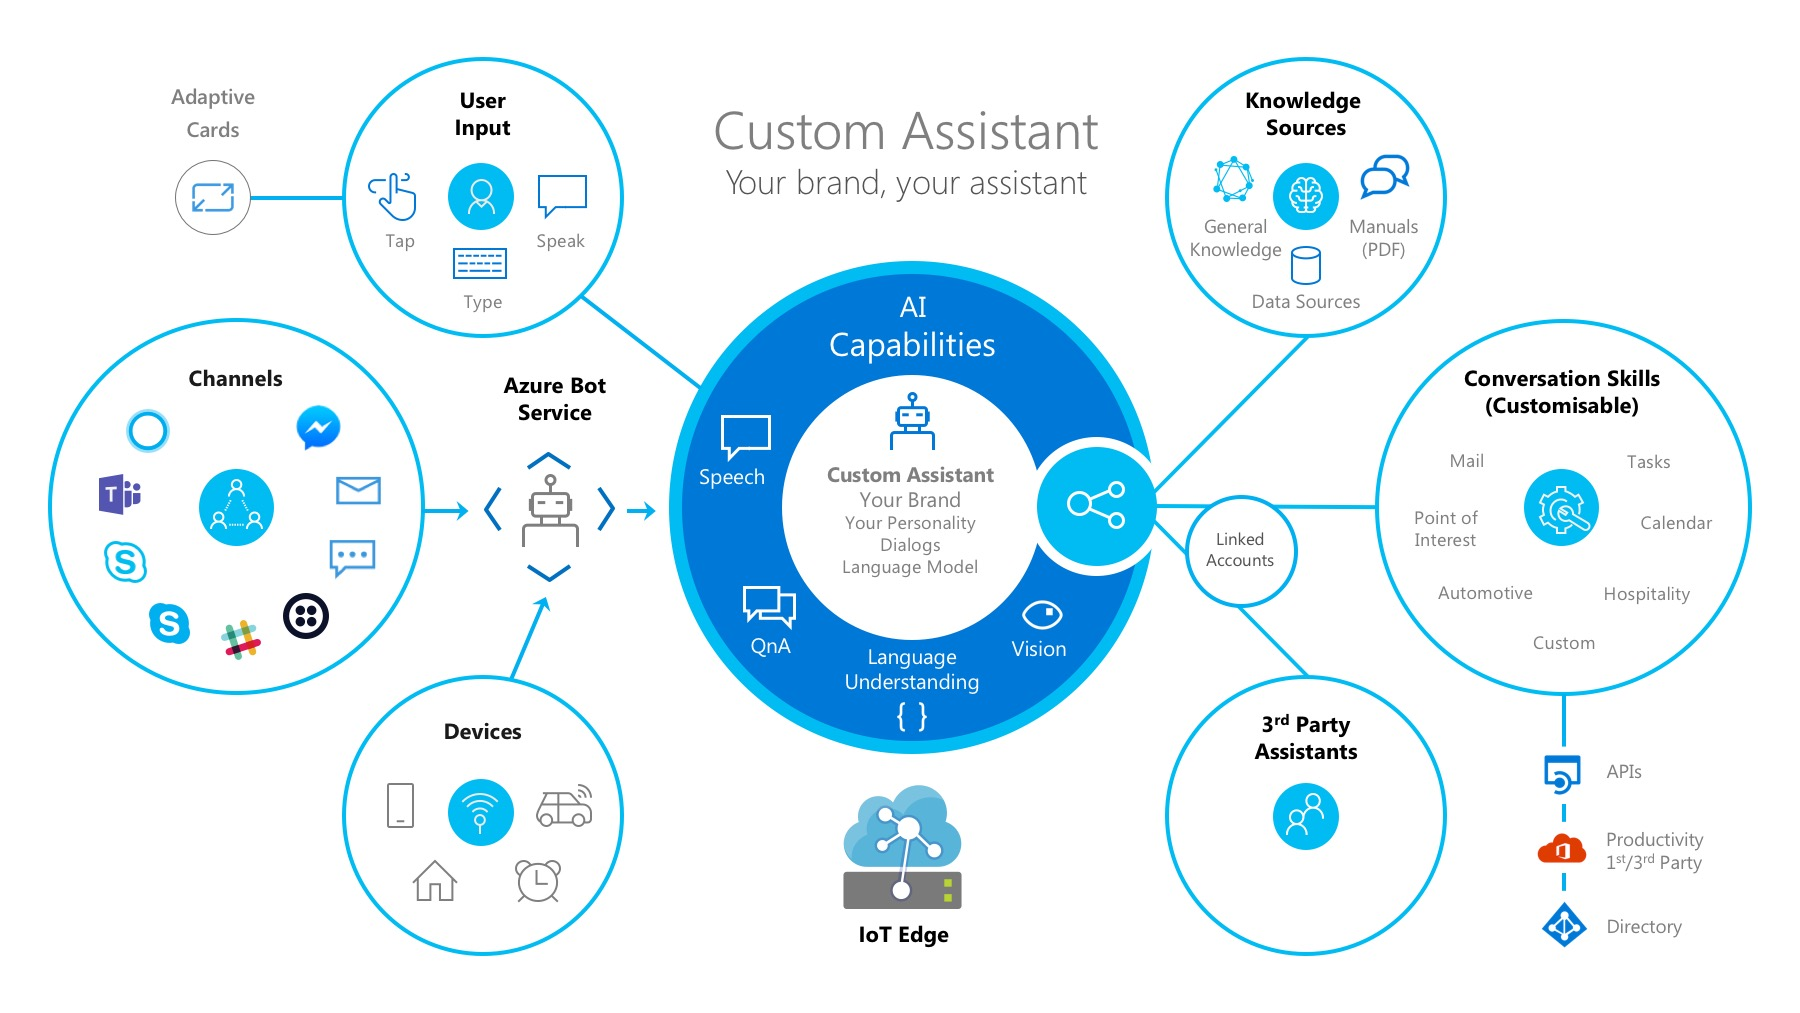
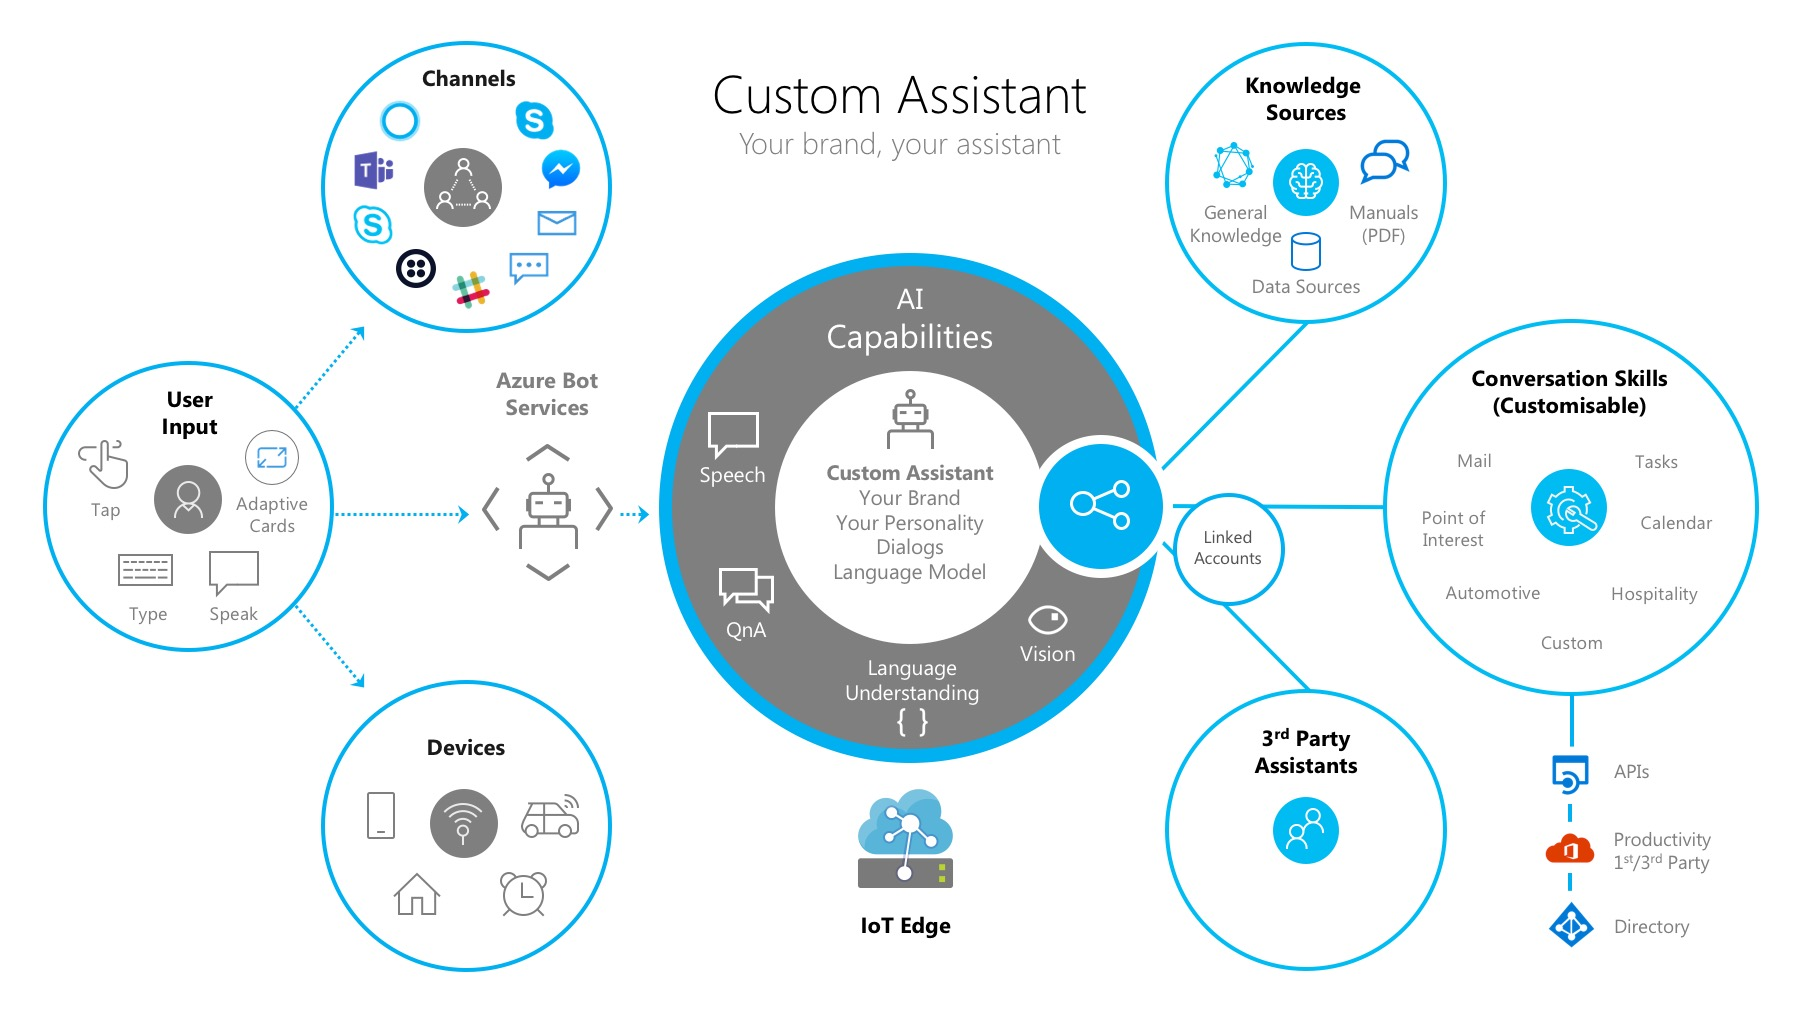
new custom assistant overview

diff --git a/solutions/Custom-Assistant/docs/README.md b/solutions/Custom-Assistant/docs/README.md
@@ -1,67 +1,40 @@
 # Custom Assistant Solution Overview
 
 ## Overview
+We have seen significant need from our customers and partners to deliver a conversational assistant tailored to their brand, personalized to their customers and made available across a broad range of conversational canvases and devices. Continuing Microsoft open-sourced approach toward Bot Framework SDK, the open source Custom Personal Assistant solution provides full control over the end user experience built on a set of foundational capabilities. Additionally, the experience can be infused with intelligence about the end-user and any device/ecosystem information for a truly integrated and intelligent experience.
 
-We have seen significant need from our customers and partners to deliver a conversational assistant tailored to their brand, personalized to their customers and made available across a broad range of conversational canvases and devices. Continuing Microsoft open-sourced approach toward Bot Framework SDK, the open source Custom Personal Assistant provides full control over the end user experience built on a set of foundational capabilities. Additionally, the experience can be infused with intelligence about the end-user and any device/ecosystem information for a truly integrated and intelligent experience.
+We strongly believe our customers should own and enrich their customer relationships and insights. Therefore, any custom assistant provides complete control of the user experience to our customers and partners through open-sourcing the code on GitHub. The name, voice and personality can be changed to suit the organization’s needs. Our Custom Assistant solution simplifies creation of your own assistant enabling you to get started in minutes and then extended using our end to end development tooling.
 
-We strongly believe our customers should own and enrich their customer relationships and insights. Therefore, any custom assistant provides complete control of the user experience to our customers and partners. The name, voice and personality can be changed to suit the organization’s needs. Our Custom Assistant solution simplifies creation of your own assistant enabling you to get started in minutes.
+The scope of Custom Personal Assistant functionality is broad, typically offering end users a range of capabilities. To increase developer productivity and to enable a vibrant ecosystem of reusable conversational experiences, we are providing developers initial examples of reusable conversational skills. These Skills can be added into a conversational application to light up a specific conversation experience, such as finding a point of interest, interacting with calendar, tasks, email and many other scenarios. Skills are fully customizable and consist of language models for multiple languages, dialogs and code.
 
-The scope of Custom Personal Assistant functionality is broad, typically offering end users a range of capabilities. To increase developer productivity and to enable a vibrant ecosystem of reusable conversational experiences, we are providing developers initial examples of reusable conversational skills. These skills can be added into the conversational application to light up a specific conversation experience, such as finding a point of interest, interacting with calendar, tasks, email and many other scenarios. Skills are fully customizable and consist of language models for multiple languages, dialogs and code.
-
-At this time we are running an initial preview and working closely with initial customers and partners in an open-source repository to bring to life the first experiences and make it available more broadly in the coming months. 
+At this time we are running an initial preview and working closely with initial customers and partners in an open-source repository to bring to life the first experiences and make it available more broadly in the coming months.
 
 ![Custom Assistant Diagram](./media/customassistantdiagram.jpg)
 
-## Complete control of the user experience
+## What's in the box
 
-All aspects of the end user experience are owned and controlled by you. This includes the Branding, Name, Voice, Personality, Responses and Avatar. The source-code to the Custom Assistant and supporting Skills are provided in full enabling you to adjust as required.
+The Custom Assistant builds on the [Enterprise Template]() capabilities which provide foundational capabilities for conversational experiences including base conversational intents in multiple languages, Dispatching, QnA and conversational insights. The following Assistant related capabilities are provided at this time, further capabilities are planned and we'll be working closely with customers and partners to help inform the roadmap.
 
-## Complete ownership and control of data
+Feature | Description |
+------------ | -------------
+Onboarding | An example OnBoarding flow enabling your Assistant to greet the user and collect initial information.
+[Eventing Architecture](./customassistant-eventing.md) | Events in the context of the Custom Assistant enable the client application hosting the assistant (in a web-browser or on a device such as a car or speaker) to exchange information about the user or device events whilst also receiving events to perform device operations.
+[Linked Accounts](./customassistant-linkedaccounts.md) | In a speech-led scenario it's not practical for a user to enter their username and password for supporting systems through voice commands. Therefore a separate companion experience provides an opportunity for the user to signin-in and provide permission for an Custom Assistant to retrieve tokens for later use.
+[Skill Enablement](./customassistant-skills.md) | A broad set of common capabilities exist which today, which require each developer to build themselves. Our Custom Assistant solution includes a new Skill capability enabling new capabilities to be plugged into an custom assistant through configuration only and provide an authentication mechanism for Skills to request tokens for down-stream activities.
+[Point of Interest Skill](./customassistant-skills-pointofinterest.md) | The preview Point of Interest (PoI) skill provides a comprehensive language model for finding points of interest and requesting directions. The skill currently provides integration into Azure Maps.
+[Calendar Skill](./customassistant-skills-productivity-calendar.md) | The preview Calendar Skill provides a comprehensive language model for common calendar related activities, The skill is currently integrated into Microsoft Graph (Office 365/Outlook.com) with support for Google APIs to follow soon..
+[Email Skill](./customassistant-skills-productivity-email.md) | The preview Email Skill provides a comprehensive language model for common email related activities, The skill is currently integrated into Microsoft Graph (Office 365/Outlook.com) with support for Google APIs to follow soon.
+[ToDo Skill](./customassistant-skills-productivity-tasks.md) | The preview ToDo Skill provides a comprehensive language model for common task related activities, The skill is currently integrated into OneNote with Microsoft Graph (outlookTask) support to follow soon.
+[Test Harnesses](./customassistant-testing.md) | In addition to the Bot Framework Emulator, a WebChat based test harness is provided enabling more complex authentication scenarios to be tested. A simple Console based test harness demonstrates the approach to exchange messages to help frame the ease of device integration.
+Automotive Language Model | An Automotive language model covering core domains such as telephone, navigation and control of in-car features is coming soon
 
-Your Custom Assistant will be deployed within your Azure subscription. Therefore all data generated by your assistant (questions asked, user behaviour, etc.) is entirely contained within your Azure subscription. See [Cognitive Services Azure Trusted Cloud](https://www.microsoft.com/en-us/trustcenter/cloudservices/cognitiveservices) and the [Azure section of the Trust Center](https://www.microsoft.com/en-us/TrustCenter/CloudServices/Azure) more specifically for more information.
+In addition, all of the Azure resources required for the Bot are automatically deployed: Bot registration, Azure App Service, LUIS, QnAMaker, Content Moderator, CosmosDB, Azure Storage, and Application Insights. Additionally, base LUIS, QnAMaker, and Dispatch models are created, trained, and published to enable immediate testing of basic intents and routing.
 
-## Your Assistant, anywhere..
-
-The Custom Assistant leverages the Microsoft Conversational AI platform and therefore can be surfaced through any Bot Framework [channel](https://docs.microsoft.com/en-us/azure/bot-service/bot-service-manage-channels?view=azure-bot-service-4.0) – e.g. WebChat, FaceBook Messenger, Skype, etc. In addition, through the [Direct Line](https://docs.microsoft.com/en-us/azure/bot-service/rest-api/bot-framework-rest-direct-line-3-0-concepts?view=azure-bot-service-4.0) channel we can embed experiences into Desktop and Mobile Apps including devices such as Cars, Speakers, Alarm Clocks, etc.
-
-## Built on Enterprise grade technology
-
-The Custom Assistant solution is built on the Azure Bot Service, Language Understanding Cognitive Service, Unified Speech along with a broad set of supporting Azure components meaning that you benefit from the [Azure global infrastructure](https://azure.microsoft.com/en-gb/global-infrastructure/).
-
-In addition, Language Understanding support is provided by the LUIS Cognitive Service which supports a broad set of languages [listed here](https://docs.microsoft.com/en-us/azure/cognitive-services/luis/luis-supported-languages). The [Translator Cognitive Service](https://azure.microsoft.com/en-us/services/cognitive-services/translator-text-api/) provides additional Machine Translation capabilities to extend the reach of your Custom Assistant even further.
-
-## Integrated and Context Aware
-
-Your Custom Assistant can be integrated into your device and ecosystem enabling a truly integrated and intelligent experience . Through this contextual awareness more intelligent experiences can be developed and deliver further personalisation than otherwise possible.
-
-## 3rd Party assistant integration
-
-The Custom Assistant enables you to deliver your own unique experience but also hand-off to the end-users chosen Digital Assistant for certain types of questions.
-
-## Flexible integration
-
-Our Custom Assistant architecture is flexible and can be integrated with existing investments you may have made into device based Speech or Natural Language processing capabilities and of course integrate with your existing back-end systems and APIs.
-
-## Adaptive Cards
-
-[Adaptive Cards](https://adaptivecards.io/) provide the ability for your Custom Assistant to return User Experience elements (e.g. Cards, Images, Buttons) alongside text base responses. If the device or conversation canvas has a screen these Adaptive Cards can be rendered across a broad range of devices and platforms providing supporting User Experience where appropriate. Examples of Adaptive Cards can be found [here](https://adaptivecards.io/samples/) with information on Rendering options in the documentation [here](https://docs.microsoft.com/en-us/adaptive-cards/rendering-cards/getting-started).
-
-## Skills
-
-In addition to the base assistant, there exists a broad set of common capabilities which require each developer to build themselves. Productivity is a great example where each organisation would need to create Language Models (LUIS), Dialogs (Code), Integration (Code) and Language Generation (Responses) to enable popular Calendar, Task or email experiences. 
-
-This is then further complicated by the need to support multiple languages and results in a large amount of work 
-required for any organisation building their own assistant.
-
-Our Custom Assistant solution includes a new Skill capability enabling new capabilities to be plugged into an custom-assistant through configuration only. 
-
-All aspects of each Skill (Language Model, Dialogs, Integration Code and Language Generation) are completely customisable by developers as the full source code is provided on GitHub along with the Custom Assistant.
-
-Initial previews of the [Email](./customassistant-skills-productivity-email.md), [Calendar](./customassistant-skills-productivity-calendar.md), [Task](./customassistant-skills-productivity-task.md) and [Point of Interest Skills](./customassistant-skills-pointofinterest.md) are now avaialble. 
+Once the template is created and deployment steps are executed you can hit F5 to test end-to-end. This provides a solid base from which to start your conversational experience, reducing multiple days' worth of effort that each project had to undertake and raises the conversational quality bar.
 
 ## Example Scenarios
 
-The Custom Assistant extends across a broad number of industry scenarios, example scenarios are shown below for reference purposes:
+The Custom Assistant extends across a broad number of industry scenarios, some example scenarios are shown below for reference purposes.
 
 - Automotive Industry: Voice enabled Personal Assistant integrated into the car providing end users the ability to perform traditional car operations (e.g. navigation, radio) along with productivity focused scenarios such as moving meetings when your running late, adding items to your task list and proactive experiences where the car can suggest tasks to complete based on events such as starting the engine, traveling home or enabling cruise control. Adaptive Cards are rendered within the Head Unit and Speech integration performed through Push-To-Talk or Wake Word interactions.
 
@@ -69,15 +42,55 @@ The Custom Assistant extends across a broad number of industry scenarios, exampl
 
 - Enterprise: Voice and Text enabled branded Employee Assistant experiences integrated into enterprise devices and existing conversation canvases (e.g. Teams, WebChat, Slack) enabling employees to manage their calendars, find available meeting rooms, find people with specific skills or perform HR related operations.
 
+## Custom Assistant Principals
+
+### Your data, your brand and your experience
+All aspects of the end user experience are owned and controlled by you. This includes the Branding, Name, Voice, Personality, Responses and Avatar. The source-code to the Custom Assistant and supporting Skills are provided in full enabling you to adjust as required.
+
+Your Custom Assistant will be deployed within your Azure subscription. Therefore all data generated by your assistant (questions asked, user behaviour, etc.) is entirely contained within your Azure subscription. See [Cognitive Services Azure Trusted Cloud](https://www.microsoft.com/en-us/trustcenter/cloudservices/cognitiveservices) and the [Azure section of the Trust Center](https://www.microsoft.com/en-us/TrustCenter/CloudServices/Azure) more specifically for more information.
+
+### Write it once, embed it anywhere
+The Custom Assistant leverages the Microsoft Conversational AI platform and therefore can be surfaced through any Bot Framework [channel](https://docs.microsoft.com/en-us/azure/bot-service/bot-service-manage-channels?view=azure-bot-service-4.0) – e.g. WebChat, FaceBook Messenger, Skype, etc. 
+
+In addition, through the [Direct Line](https://docs.microsoft.com/en-us/azure/bot-service/rest-api/bot-framework-rest-direct-line-3-0-concepts?view=azure-bot-service-4.0) channel we can embed experiences into Desktop and Mobile Apps including devices such as Cars, Speakers, Alarm Clocks, etc.
+
+### Enterprise Grade Solutions
+The Custom Assistant solution is built on the Azure Bot Service, Language Understanding Cognitive Service, Unified Speech along with a broad set of supporting Azure components meaning that you benefit from the [Azure global infrastructure](https://azure.microsoft.com/en-gb/global-infrastructure/) including ISO 27018, HIPPA, PCI DSS, SOC 1,2 and 3 certification.
+
+In addition, Language Understanding support is provided by the LUIS Cognitive Service which supports a broad set of languages [listed here](https://docs.microsoft.com/en-us/azure/cognitive-services/luis/luis-supported-languages). The [Translator Cognitive Service](https://azure.microsoft.com/en-us/services/cognitive-services/translator-text-api/) provides additional Machine Translation capabilities to extend the reach of your Custom Assistant even further.
+
+### Integrated and Context Aware
+Your Custom Assistant can be integrated into your device and ecosystem enabling a truly integrated and intelligent experience . Through this contextual awareness more intelligent experiences can be developed and deliver further personalisation than otherwise possible.
+
+### 3rd Party assistant integration
+The Custom Assistant enables you to deliver your own unique experience but also hand-off to the end-users chosen Digital Assistant for certain types of questions.
+
+### Flexible integration
+Our Custom Assistant architecture is flexible and can be integrated with existing investments you may have made into device based Speech or Natural Language processing capabilities and of course integrate with your existing back-end systems and APIs.
+
+### Adaptive Cards
+[Adaptive Cards](https://adaptivecards.io/) provide the ability for your Custom Assistant to return User Experience elements (e.g. Cards, Images, Buttons) alongside text base responses. If the device or conversation canvas has a screen these Adaptive Cards can be rendered across a broad range of devices and platforms providing supporting User Experience where appropriate. Examples of Adaptive Cards can be found [here](https://adaptivecards.io/samples/) with information on Rendering options in the documentation [here](https://docs.microsoft.com/en-us/adaptive-cards/rendering-cards/getting-started).
+
+### Skills
+In addition to the base assistant, there exists a broad set of common capabilities which require each developer to build themselves. Productivity is a great example where each organisation would need to create Language Models (LUIS), Dialogs (Code), Integration (Code) and Language Generation (Responses) to enable popular Calendar, Task or email experiences.
+
+This is then further complicated by the need to support multiple languages and results in a large amount of work required for any organisation building their own assistant.
+
+Our Custom Assistant solution includes a new Skill capability enabling new capabilities to be plugged into an custom-assistant through configuration only. 
+
+All aspects of each Skill (Language Model, Dialogs, Integration Code and Language Generation) are completely customisable by developers as the full source code is provided on GitHub along with the Custom Assistant.
+
+Initial previews of the [Email](./customassistant-skills-productivity-email.md), [Calendar](./customassistant-skills-productivity-calendar.md), [Task](./customassistant-skills-productivity-task.md) and [Point of Interest Skills](./customassistant-skills-pointofinterest.md) are now available. 
+
 ## Documentation
 
 - Custom Assistant
     - [Detailed Overview](./customassistant/detailedoverview.md)
     - [Create your Custom Assistant](./customassistant-createcustomassistant.md)
     - [Testing your Custom Assistant](./customassistant-testing.md)
-    - [Integrate into a device](./customassistant-deviceintegration.md)
-    - [Events](./customassistant-events.md)
     - [Linked Accounts](./customassistant-linkedaccounts.md)
+    - [Integrating into a device](./customassistant-deviceintegration.md)
+    - [Events](./customassistant-events.md)
     - [Responses](./customassistant-responses.md)
     - [Language Support](./customassistant-languagesupport.md)
     - [Known Issues](./customassistant-knownissues.md)
